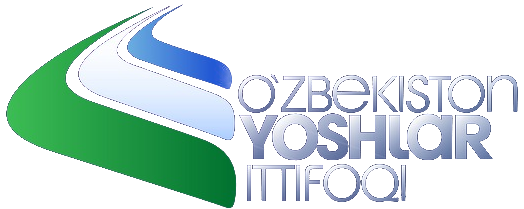
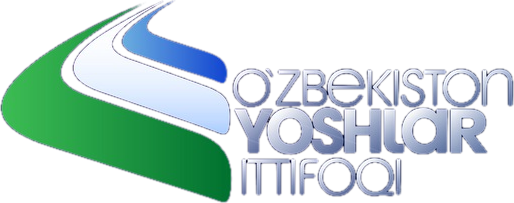
Use only the official Yoshlar ittifoqi artwork everywhere
- Knock the official lockup and swoosh emblem out of the supplied logo file
  (median-filtered alpha, no redrawing) and ship them as brand assets
- Header/footer/app icons, CTA card and favicon now all use that artwork
- Remove the drawn house mark, drawn ribbon and the invented badge
- Club card watermark uses the club's own emblem instead of a drawn shape
- Small placements use the official emblem next to a typographic name

diff --git a/src/components/brand/marks.tsx b/src/components/brand/marks.tsx
@@ -1,115 +1,75 @@
 import { cn } from "@/lib/utils";
 
 /**
- * House mark: a leaf built from two sweeping ribbons — the same gesture as the
- * Yoshlar ittifoqi swoosh, drawn from scratch so it stays crisp at 16px.
+ * Official O'zbekiston Yoshlar ittifoqi artwork, keyed to transparency from the
+ * club network's own logo file. Nothing here is redrawn: `yi-emblem.png` is the
+ * swoosh cropped out of the official lockup, `yoshlar-ittifoqi-mark.png` is the
+ * full official lockup.
  */
-export function SwooshMark({ className, size = 32 }: { className?: string; size?: number }) {
+export function YiEmblem({
+  className,
+  style,
+  alt = "",
+}: {
+  className?: string;
+  style?: React.CSSProperties;
+  alt?: string;
+}) {
   return (
-    <svg
-      width={size}
-      height={size}
-      viewBox="0 0 32 32"
-      fill="none"
-      aria-hidden
-      className={className}
-    >
-      <defs>
-        <linearGradient id="swoosh-a" x1="4" y1="28" x2="28" y2="4" gradientUnits="userSpaceOnUse">
-          <stop stopColor="#0B7A3A" />
-          <stop offset="0.52" stopColor="#1E9E4F" />
-          <stop offset="1" stopColor="#2458D6" />
-        </linearGradient>
-        <linearGradient id="swoosh-b" x1="9" y1="29" x2="29" y2="9" gradientUnits="userSpaceOnUse">
-          <stop stopColor="#2458D6" stopOpacity="0.95" />
-          <stop offset="1" stopColor="#5C8BF0" stopOpacity="0.85" />
-        </linearGradient>
-      </defs>
-      <path
-        d="M3.4 27.2C3.4 14.05 14.05 3.4 27.2 3.4c0 13.15-10.65 23.8-23.8 23.8Z"
-        fill="url(#swoosh-a)"
-      />
-      <path
-        d="M9.6 28.6c-.15-6.9 2.2-12.6 7.4-17.1 3.6-3.1 7.9-4.7 12.2-5.1"
-        stroke="url(#swoosh-b)"
-        strokeWidth="2.1"
-        strokeLinecap="round"
-      />
-    </svg>
+    // eslint-disable-next-line @next/next/no-img-element
+    <img
+      src="/brand/yi-emblem.png"
+      alt={alt}
+      aria-hidden={alt ? undefined : true}
+      className={cn("select-none", className)}
+      style={style}
+      draggable={false}
+      decoding="async"
+    />
   );
 }
 
-/** Motion lines: five tapered sweeps in the swoosh's own gesture. */
-export function BrandRibbon({ className }: { className?: string }) {
-  const curves = [
-    { d: "M-40 660C170 470 400 330 660 235c190-70 380-108 580-124", w: 1.6, o: 0.5 },
-    { d: "M-40 730C180 530 420 380 690 278c196-74 392-114 600-130", w: 1.2, o: 0.38 },
-    { d: "M-30 800C190 590 440 430 720 320c204-78 408-120 620-136", w: 1, o: 0.28 },
-    { d: "M-20 870C200 650 460 480 750 362c212-82 424-126 640-142", w: 0.8, o: 0.2 },
-    { d: "M0 940C220 710 480 530 780 404c220-86 440-132 660-148", w: 0.7, o: 0.14 },
-  ];
+/**
+ * Compact signature: the official emblem at its real proportions next to a
+ * typographic name. Used where the full lockup would render too small to read —
+ * the mark itself is never redrawn.
+ */
+export function YiSignature({ className, emblem = 30 }: { className?: string; emblem?: number }) {
   return (
-    <svg
-      viewBox="0 0 1200 700"
-      fill="none"
-      aria-hidden
-      preserveAspectRatio="xMaxYMid slice"
-      className={className}
-    >
-      <defs>
-        <linearGradient id="ribbon-line" x1="120" y1="700" x2="1180" y2="60" gradientUnits="userSpaceOnUse">
-          <stop stopColor="#0B7A3A" />
-          <stop offset="0.42" stopColor="#1E9E4F" />
-          <stop offset="0.72" stopColor="#2458D6" />
-          <stop offset="1" stopColor="#5C8BF0" />
-        </linearGradient>
-      </defs>
-      {curves.map((c, i) => (
-        <path
-          key={i}
-          d={c.d}
-          stroke="url(#ribbon-line)"
-          strokeWidth={c.w}
-          strokeOpacity={c.o}
-          strokeLinecap="round"
-        />
-      ))}
-    </svg>
+    <span className={cn("inline-flex items-center gap-2.5", className)}>
+      <span
+        className="inline-flex shrink-0 items-center justify-center overflow-hidden rounded-[6px] bg-[#0d1646]"
+        style={{ width: emblem, height: emblem }}
+      >
+        <YiEmblem style={{ height: emblem * 0.7, width: "auto" }} />
+      </span>
+      <span className="text-[10px] font-semibold uppercase leading-[1.35] tracking-[0.14em]">
+        O‘zbekiston
+        <br />
+        Yoshlar ittifoqi
+      </span>
+    </span>
   );
 }
 
-/** Official lockup, keyed to transparency so it sits directly on dark surfaces. */
+/** Full official lockup: emblem + "O'zbekiston Yoshlar ittifoqi" wordmark. */
 export function YoshlarIttifoqiLockup({
   className,
   height = 40,
-  label = "O‘zbekiston Yoshlar ittifoqi",
 }: {
   className?: string;
   height?: number;
-  label?: string;
 }) {
-  if (height < 44) {
-    // Small sizes: the emblem stays readable, the wordmark would not — show the emblem only.
-    return (
-      <span className={cn("inline-flex items-center gap-2.5", className)}>
-        <SwooshMark size={height} />
-        <span className="text-[10px] font-semibold uppercase leading-[1.35] tracking-[0.14em] text-white/60">
-          O‘zbekiston
-          <br />
-          Yoshlar ittifoqi
-        </span>
-      </span>
-    );
-  }
   return (
     <span className={cn("inline-flex items-center", className)} style={{ height }}>
       {/* eslint-disable-next-line @next/next/no-img-element */}
       <img
         src="/brand/yoshlar-ittifoqi-mark.png"
-        alt={label}
+        alt="O‘zbekiston Yoshlar ittifoqi"
         style={{ height: "100%", width: "auto" }}
         loading="lazy"
         decoding="async"
+        draggable={false}
       />
     </span>
   );

diff --git a/src/app/(site)/page.tsx b/src/app/(site)/page.tsx
@@ -15,7 +15,7 @@ import { BookCard, NewsCard } from "@/components/site/cards";
 import { CoverArt } from "@/components/ui/cover-art";
 import { ClubLogo } from "@/components/ui/club-logo";
 import { Badge, ProgressBar } from "@/components/ui/primitives";
-import { BrandRibbon, SwooshMark, YoshlarIttifoqiLockup } from "@/components/brand/marks";
+import { YoshlarIttifoqiLockup } from "@/components/brand/marks";
 import { Counter } from "@/components/site/motion";
 import { CATEGORY_LABELS, type ClubCategory } from "@/config/clubs";
 import { formatDate, relativeDate, timeRange } from "@/lib/format";
@@ -58,17 +58,6 @@ export default async function HomePage() {
       {/* ------------------------------------------------------------------ hero */}
       <section className="hero-shell grain relative border-b border-[color:var(--color-line)]">
         <div aria-hidden className="contour-field" />
-        <div
-          aria-hidden
-          className="pointer-events-none absolute -right-[8%] -top-[10%] hidden h-[122%] w-[68%] sm:block"
-          style={{
-            maskImage: "linear-gradient(105deg, transparent 34%, #000 62%)",
-            WebkitMaskImage: "linear-gradient(105deg, transparent 34%, #000 62%)",
-            opacity: 0.85,
-          }}
-        >
-          <BrandRibbon className="h-full w-full" />
-        </div>
         <div aria-hidden className="bloom-blue -right-28 -top-32 h-[240px] w-[240px] opacity-70 drift sm:h-[420px] sm:w-[420px] sm:opacity-100" />
         <div aria-hidden className="bloom-green -left-52 bottom-[-200px] hidden h-[300px] w-[300px] opacity-70 sm:block" />
 
@@ -343,10 +332,15 @@ export default async function HomePage() {
                   background: `radial-gradient(110% 90% at 100% 0%, ${featured.accent}22 0%, transparent 62%)`,
                 }}
               />
-              <SwooshMark
-                size={280}
-                className="pointer-events-none absolute -bottom-24 -right-16 opacity-[0.05] transition-opacity duration-700 group-hover:opacity-[0.09]"
-              />
+              {featured.logoUrl ? (
+                /* eslint-disable-next-line @next/next/no-img-element */
+                <img
+                  src={featured.logoUrl}
+                  alt=""
+                  aria-hidden
+                  className="pointer-events-none absolute -bottom-16 -right-10 w-[260px] opacity-[0.07] transition-opacity duration-700 group-hover:opacity-[0.12]"
+                />
+              ) : null}
               <div className="relative">
                 <div className="flex items-start justify-between">
                   <span className="flex items-center gap-2 text-[10.5px] font-semibold uppercase tracking-[0.14em] text-[color:var(--color-muted)]">
@@ -768,7 +762,7 @@ export default async function HomePage() {
                 <p className="text-[9.5px] font-semibold uppercase tracking-[0.18em] text-white/40">
                   Rasmiy loyiha
                 </p>
-                <YoshlarIttifoqiLockup height={52} className="mt-3" />
+                <YoshlarIttifoqiLockup height={72} className="mt-4" />
                 <div className="mt-4 flex items-center gap-3 border-t border-white/10 pt-4">
                   {/* eslint-disable-next-line @next/next/no-img-element */}
                   <img

diff --git a/src/components/site/logo.tsx b/src/components/site/logo.tsx
@@ -1,6 +1,6 @@
 import Link from "next/link";
 import { cn } from "@/lib/utils";
-import { SwooshMark } from "@/components/brand/marks";
+import { YiEmblem } from "@/components/brand/marks";
 
 export function Logo({
   className,
@@ -17,10 +17,12 @@ export function Logo({
       className={cn("group inline-flex items-center gap-2.5", className)}
       aria-label="TDIU Clubs — bosh sahifa"
     >
-      <SwooshMark
-        size={compact ? 26 : 30}
-        className="shrink-0 transition-transform duration-500 ease-out group-hover:-rotate-6"
-      />
+      <span
+        className="inline-flex shrink-0 items-center justify-center overflow-hidden rounded-[7px] bg-[#0d1646] transition-transform duration-500 ease-out group-hover:scale-[1.05]"
+        style={{ width: compact ? 28 : 34, height: compact ? 28 : 34 }}
+      >
+        <YiEmblem style={{ height: compact ? 20 : 24, width: "auto" }} />
+      </span>
       <span className="flex flex-col whitespace-nowrap leading-none">
         <span
           className={cn(

diff --git a/src/components/site/footer.tsx b/src/components/site/footer.tsx
@@ -1,7 +1,7 @@
 import Link from "next/link";
 import { ArrowUpRight } from "lucide-react";
 import { Logo } from "@/components/site/logo";
-import { YoshlarIttifoqiLockup } from "@/components/brand/marks";
+import { YiSignature } from "@/components/brand/marks";
 
 export function SiteFooter() {
   return (
@@ -19,7 +19,7 @@ export function SiteFooter() {
               <p className="text-[9.5px] font-semibold uppercase tracking-[0.18em] text-white/35">
                 Hamkor
               </p>
-              <YoshlarIttifoqiLockup height={40} className="mt-2.5" />
+              <YiSignature emblem={30} className="mt-2.5 text-white/55" />
             </div>
           </div>
 

diff --git a/src/app/layout.tsx b/src/app/layout.tsx
@@ -38,7 +38,13 @@ export const metadata: Metadata = {
     url: siteUrl,
   },
   robots: { index: true, follow: true },
-  icons: { icon: "/icon.svg" },
+  icons: {
+    icon: [
+      { url: "/brand/yi-icon-32.png", sizes: "32x32", type: "image/png" },
+      { url: "/brand/yi-icon-512.png", sizes: "512x512", type: "image/png" },
+    ],
+    apple: [{ url: "/brand/yi-icon-180.png", sizes: "180x180" }],
+  },
 };
 
 export const viewport: Viewport = {
